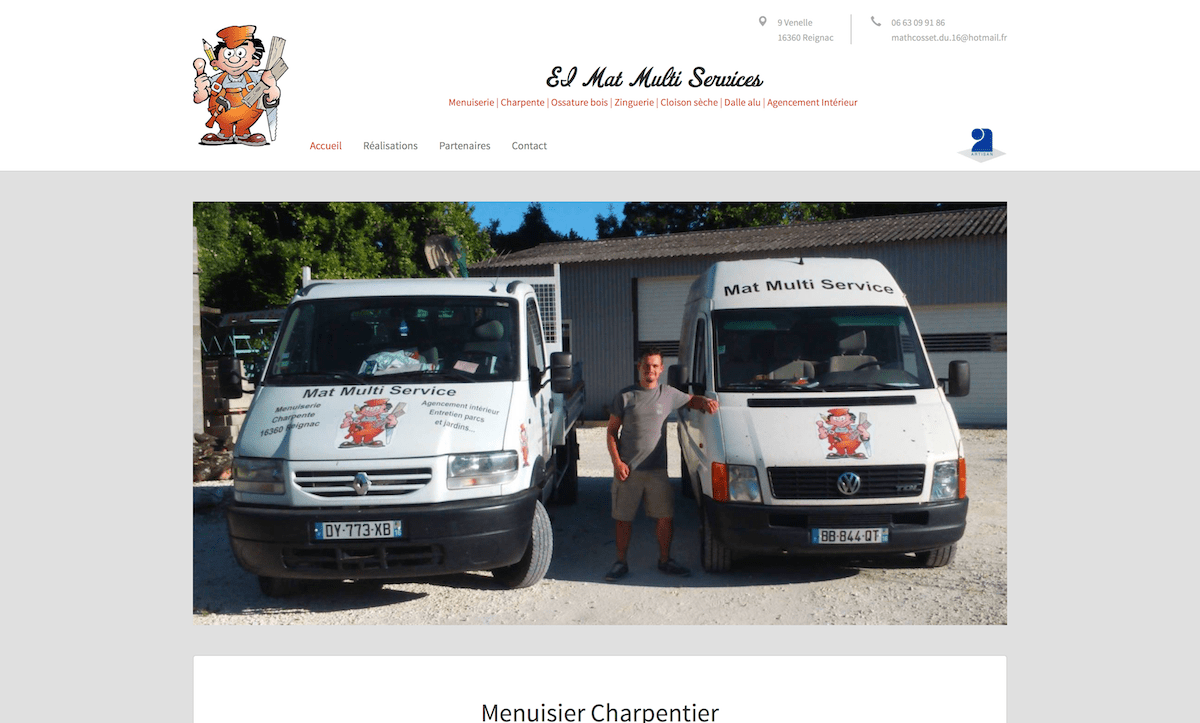
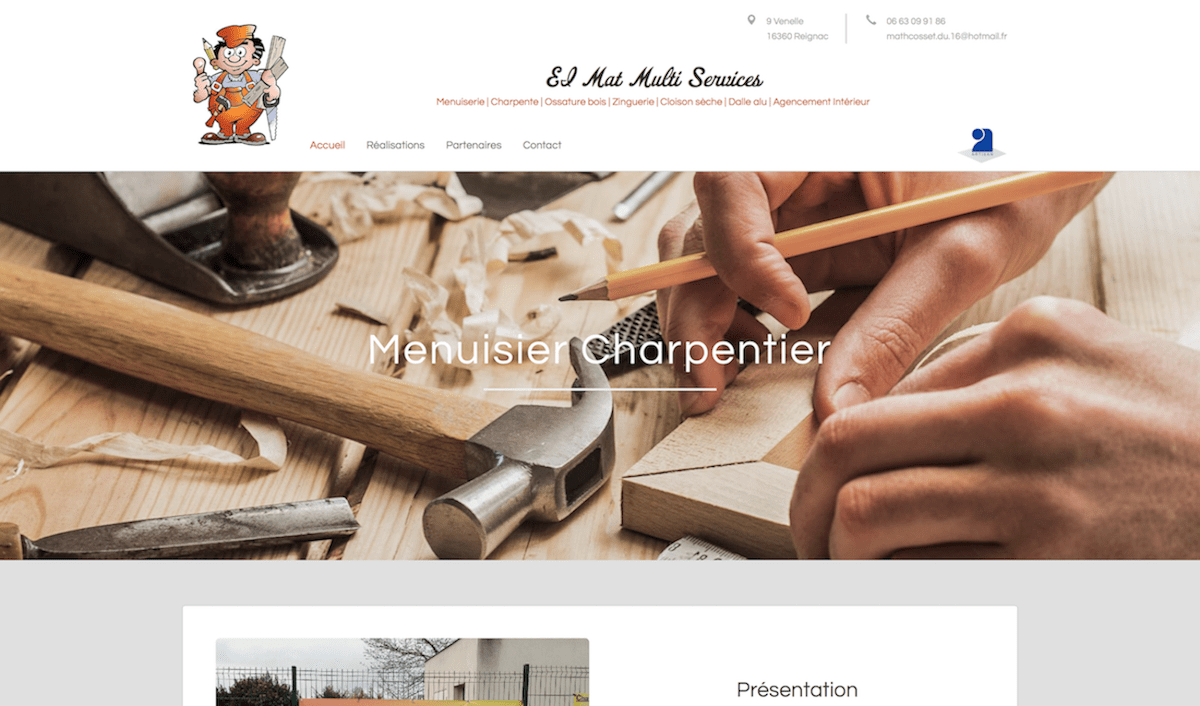
modif img accueil

diff --git a/css/style.css b/css/style.css
@@ -33,8 +33,14 @@ footer p {
 	margin-bottom: 5px;
 }
 
+a {
+	text-decoration: none;
+  color: black;
+}
+
 a:hover {
 	text-decoration: none;
+  color: black;
 }
 
 .logo {
@@ -254,7 +260,7 @@ a:hover {
   }
 
   .img-accueil {
-  	height: 53vh;
+  	height: 50vh;
   }
 
   #accueil .background-white {

diff --git a/pages/contact.php b/pages/contact.php
@@ -25,7 +25,7 @@
     			<br>
     			<br>
           <div class="col-md-12 maps">
-            <iframe src="https://www.google.com/maps/embed?pb=!1m18!1m12!1m3!1d179235.0343220898!2d-0.31353417681448187!3d45.418465428252894!2m3!1f0!2f0!3f0!3m2!1i1024!2i768!4f13.1!3m3!1m2!1s0x48006fb658f5a08f%3A0xb23711f8f38cf24f!2sVenelle%2C+16360+Reignac!5e0!3m2!1sfr!2sfr!4v1485170460768" width="100%" height="400px" frameborder="0" style="border:0" allowfullscreen=""></iframe>
+            <iframe src="https://www.google.com/maps/embed?pb=!1m18!1m12!1m3!1d233957.86299644172!2d-0.2607381153527838!3d45.37684161224261!2m3!1f0!2f0!3f0!3m2!1i1024!2i768!4f13.1!3m3!1m2!1s0x48006fb6fb5e8f05%3A0x4e26b9f7e5361865!2sMat+Multi+Services!5e0!3m2!1sfr!2sfr!4v1488307714032" width="100%" height="400px" frameborder="0" style="border:0" allowfullscreen=""></iframe>
           </div>
         </div>
         <br>

diff --git a/includes/menu.php b/includes/menu.php
@@ -10,7 +10,8 @@
           <span class="icon-bar"></span>
           <span class="icon-bar"></span>
         </button>
-        <a href="/" class="navbar-brand logo"><img src="img/logo_mat-multi-services.jpg" alt="logo mat multi services" class="img-responsive logo-img"></a>
+        <a href="/" class="navbar-brand logo hidden-xs"><img src="img/logo_mat-multi-services.jpg" alt="logo mat multi services" class="img-responsive logo-img"></a>
+        <a class="navbar-brand logo visible-xs-block"><img src="img/logo_mat-multi-services.jpg" alt="logo mat multi services" class="img-responsive logo-img"></a>
       </div>
 
       <div class="coordonnees text-right hidden-xs">

diff --git a/index.php b/index.php
@@ -39,7 +39,7 @@
 
         <div class="container vcenter background-white">
           <div class="col-sm-6 img-padding">
-            <img src="../img/camion.jpg" alt="camion de Mat Multi Services" class="img-responsive img-rounded">
+            <img src="../img/pub.png" alt="camion de Mat Multi Services" class="img-responsive img-rounded">
           </div>
           <div class="col-sm-6">
             <h2>Présentation</h2>
